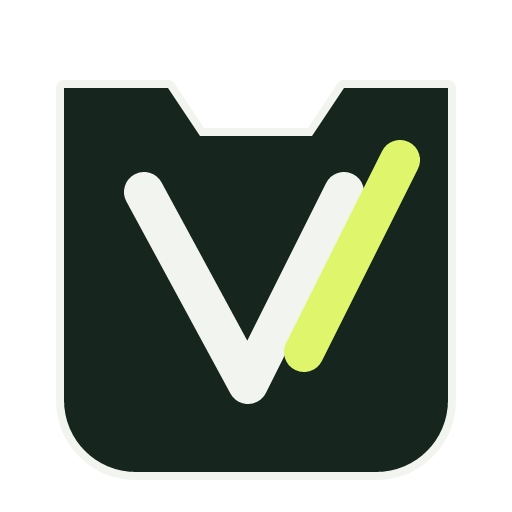
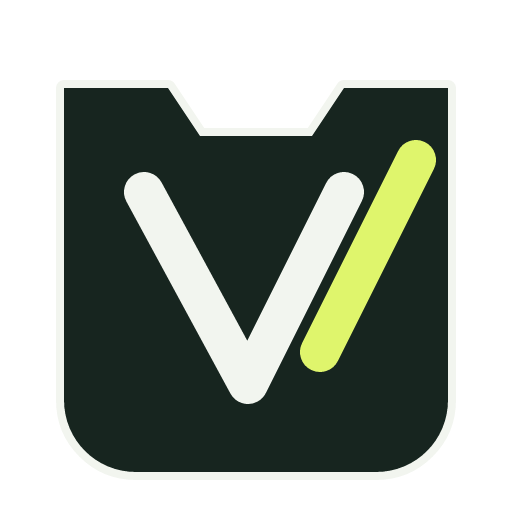
fix(brand): separate the V and Harvest slash strokes

Changed region(s): [[0.5312, 0.25, 0.875, 0.75]]

diff --git a/frontend/src/design/brandAssets.test.js b/frontend/src/design/brandAssets.test.js
@@ -6,18 +6,29 @@
 // Visual correctness (silhouette legible, V/slash distinct) is checked by the
 // programmatic QA pass in the task report, not by this suite.
 
+import { execFileSync } from 'node:child_process'
 import { createHash } from 'node:crypto'
-import { existsSync, readFileSync } from 'node:fs'
+import { existsSync, readFileSync, rmSync, writeFileSync } from 'node:fs'
 import { resolve } from 'node:path'
 import { describe, expect, it } from 'vitest'
 
-const PUBLIC_DIR = resolve(import.meta.dirname, '../../public')
+const FRONTEND_DIR = resolve(import.meta.dirname, '../..')
+const PUBLIC_DIR = resolve(FRONTEND_DIR, 'public')
 const MANIFEST_PATH = resolve(PUBLIC_DIR, 'brand/assets.manifest.json')
+const BUILD_SCRIPT = resolve(FRONTEND_DIR, 'scripts/build-brand-assets.mjs')
+const CHECK_SCRIPT = resolve(FRONTEND_DIR, 'scripts/check-brand-assets.mjs')
 
 // Fixed pocket body path — must appear byte-identical in every mark variant.
 // No chat tail, face, leaf, coin, gradient, blur, or network symbol allowed
 // alongside it.
 const POCKET_D = 'M8 11H21L25 17H39L43 11H56V50C56 55 52 59 47 59H17C12 59 8 55 8 50Z'
+
+// V stays byte-identical; the slash was moved off it (geometry revision —
+// the old slash overlapped the V's right leg by ~0.53 unit at the fixed
+// 5px stroke width, new gap is 5.36 units).
+const V_D = 'M18 24L31 48L43 24'
+const OLD_SLASH_D = 'M38 44L50 20'
+const SLASH_D = 'M40 44L52 20'
 
 // The compact mark family — every one of these is a 64x64 transparent canvas
 // carrying the same fixed pocket/V/slash geometry, recolored per theme.
@@ -126,5 +137,41 @@ describe('brand asset contract', () => {
     const legacy = readFileSync(resolve(PUBLIC_DIR, 'vibing_farmer.logo.svg'))
     const mark = readFileSync(resolve(PUBLIC_DIR, 'brand/vibing-farmer-mark.svg'))
     expect(sha256(legacy)).toBe(sha256(mark))
+  })
+
+  it('the pocket and V are unchanged and the Harvest slash uses the separated geometry', () => {
+    for (const rel of ALL_SVG_FILES) {
+      const content = readFileSync(resolve(PUBLIC_DIR, rel), 'utf8')
+      expect(content, rel).toContain(V_D)
+      expect(content, rel).toContain(SLASH_D)
+      expect(content, rel).not.toContain(OLD_SLASH_D)
+    }
+  })
+
+  it('brand:build preserves manifest entries it does not generate (no clobber)', () => {
+    const before = JSON.parse(readFileSync(MANIFEST_PATH, 'utf8'))
+    const networkEntryBefore = before.find((e) => e.path === '/brand/networks/stellar.svg')
+    expect(networkEntryBefore, 'fixture assumes a hand-recorded network entry exists').toBeTruthy()
+
+    execFileSync('node', [BUILD_SCRIPT], { cwd: FRONTEND_DIR })
+
+    const after = JSON.parse(readFileSync(MANIFEST_PATH, 'utf8'))
+    expect(after.length).toBe(14)
+    expect(after.map((e) => e.path).sort()).toEqual(before.map((e) => e.path).sort())
+    // Preserved verbatim — the build script doesn't own these files, so it must
+    // not recompute/rewrite their manifest entry even if the file is unchanged.
+    expect(after.find((e) => e.path === '/brand/networks/stellar.svg')).toEqual(networkEntryBefore)
+  })
+
+  it('brand:check fails when a public/brand file has no manifest entry', () => {
+    const strayPath = resolve(PUBLIC_DIR, 'brand/__test-stray-no-manifest-entry.svg')
+    writeFileSync(strayPath, '<svg xmlns="http://www.w3.org/2000/svg" viewBox="0 0 1 1"></svg>')
+    try {
+      expect(() =>
+        execFileSync('node', [CHECK_SCRIPT], { cwd: FRONTEND_DIR, stdio: 'pipe' })
+      ).toThrow()
+    } finally {
+      rmSync(strayPath, { force: true })
+    }
   })
 })

diff --git a/frontend/src/components/LandingHero.jsx b/frontend/src/components/LandingHero.jsx
@@ -514,7 +514,7 @@ function HonestySection() {
 export const ECOSYSTEM = [
   // Soroban is Stellar's own smart-contract platform (same ecosystem, not a separate one) —
   // named together on one card, as the retired PARTNERS list already did.
-  { name: 'Stellar / Soroban', icon: '/logos/stellar.svg' },
+  { name: 'Stellar / Soroban', icon: '/brand/networks/stellar.svg' },
   { name: 'Blend Capital', icon: '/logos/blend.svg' },
   { name: 'Base', icon: '/logos/base.svg' },
   { name: 'Circle CCTP', icon: '/logos/circle.svg' },
